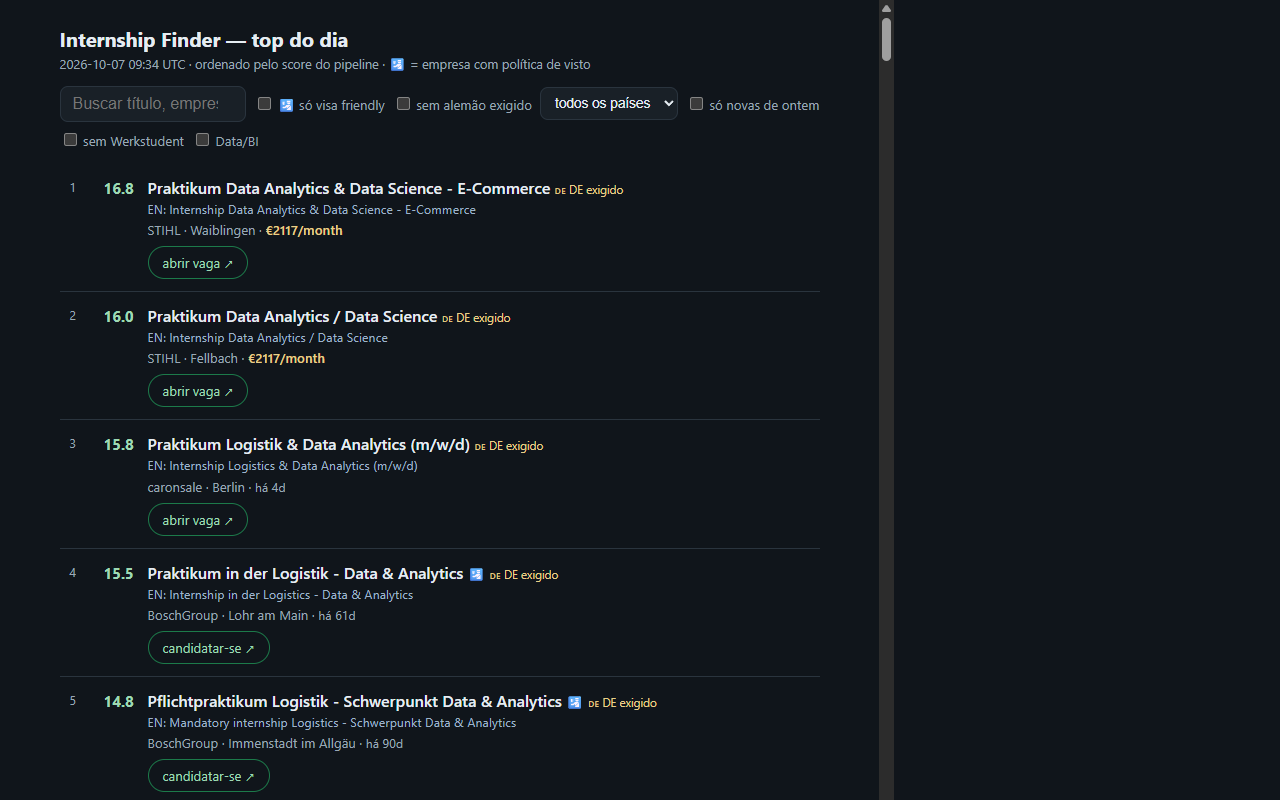
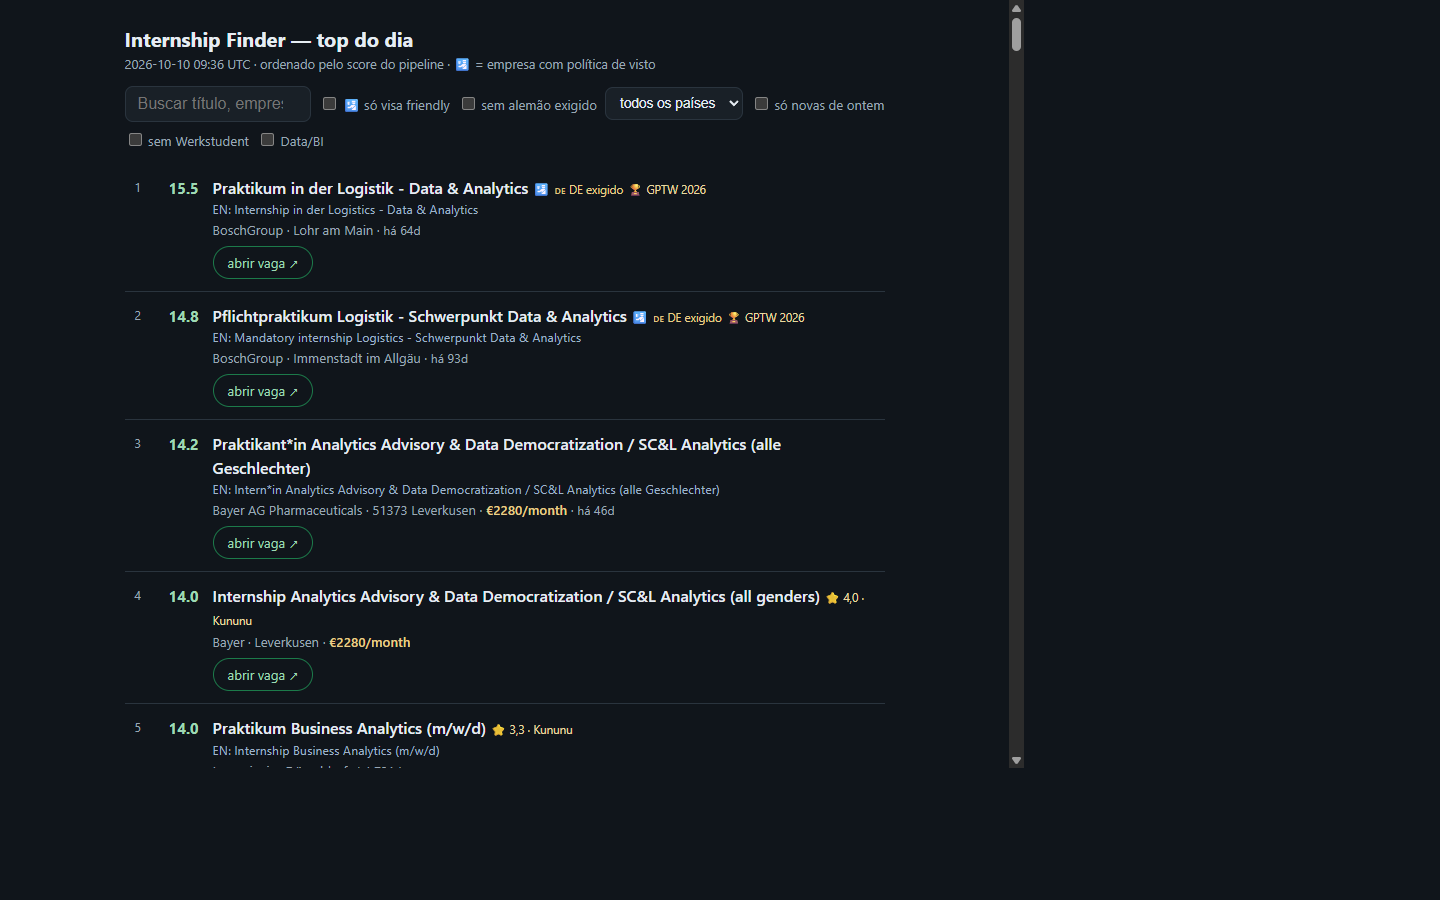
docs: refresh numbers to run 2026-10-10 (771 eligible, 110/15 registry, 67 suites, 175 commits) + new hero screenshot

diff --git a/README.md b/README.md
@@ -1,6 +1,6 @@
 # internship-finder
 
-**A production pipeline that streams ~5 million job postings every day, deduplicates them across 65 ATS platforms, and publishes a ranked, visa-aware shortlist of internships and working-student jobs in Germany.**
+**A production pipeline that streams ~5 million job postings every day, deduplicates them across 15 ATS platforms, and publishes a ranked, visa-aware shortlist of internships and working-student jobs in Germany.**
 
 [![CI](https://github.com/rios-vini/internship-finder/actions/workflows/ci.yml/badge.svg)](https://github.com/rios-vini/internship-finder/actions/workflows/ci.yml)
 [![Python 3.12+](https://img.shields.io/badge/python-3.12%2B-3776AB?logo=python&logoColor=white)](https://www.python.org/)
@@ -42,7 +42,7 @@ has done so in production since September 2026:
 ```mermaid
 flowchart LR
     DS["ats-scrapers hosted dataset<br/>~5.1M postings · 63 per-ATS slices<br/>refreshed daily ~05:00 UTC"] -->|"streaming prefilter"| F
-    RG["curated registry<br/>101 companies · 65 ATS platforms"] -->|"per-company fetch"| F
+    RG["curated registry<br/>110 companies · 15 ATS platforms"] -->|"per-company fetch"| F
     F["eligibility filters<br/>student type + target area + country"] --> D
     D["dedup<br/>3 keys + DE/EN mirror collapse"] --> R
     R["deterministic ranking<br/>2 profiles · score breakdown"] --> P
@@ -53,7 +53,7 @@ flowchart LR
 
 - **Sources** — a hosted dataset of ~5.1M job postings (streamed slice by
   slice, never fully materialized) plus per-company collection from a
-  curated registry of 101 companies across 65 ATS platforms.
+  curated registry of 110 companies across 15 ATS platforms.
 - **Filters** — student-type roles (*Praktikum*, *Werkstudent*, internship,
   working student) in Supply Chain / Procurement / BI / Analytics, plus a
   secondary Materials Engineering profile with its own independent
@@ -65,7 +65,7 @@ flowchart LR
   platforms and languages.
 - **Ranking** — deterministic, reproducible scoring (no ML) with a full
   per-component breakdown; ties broken by score → title → company → id.
-- **Visa signal** — a 🛂 badge marks the 36 companies with a curated,
+- **Visa signal** — a 🛂 badge marks the 68 companies with a curated,
   sourced visa policy; it is a company-level signal and never enters the
   relevance score.
 - **Outputs** — GitHub Pages (top 100 with search and filters), a Telegram
@@ -77,12 +77,12 @@ flowchart LR
 | | |
 |---|---|
 | **~5.1M** | job postings streamed daily from the upstream dataset |
-| **2,428** | eligible jobs in a typical daily run (Oct 2026) → top 100 published |
-| **101 / 65** | curated companies / ATS platforms in the registry |
+| **771** | eligible jobs in the latest daily run (2026-10-10) → top 100 published |
+| **110 / 15** | curated companies / ATS platforms in the registry |
 | **5** | target countries (DE primary + LU, NL, FI, BE) |
-| **59** | CI test suites, all green on every push |
+| **67** | CI test suites, all green on every push |
 | **+0.65** | Kendall tau vs. a 59-job human-labeled ranking benchmark |
-| **67** | commits — every feature PR merged with CI green twice on the exact merge SHA |
+| **175** | commits — every feature PR merged with CI green twice on the exact merge SHA |
 
 ## Engineering decisions worth noticing
 
@@ -114,7 +114,7 @@ flowchart LR
 ## Tech stack
 
 **Python 3.12+** · pydantic (canonical `Job` model) · sqlite3 ·
-requests / BeautifulSoup · GitHub Actions (59 suites on a clean runner) ·
+requests / BeautifulSoup · GitHub Actions (67 suites on a clean runner) ·
 GitHub Pages · Telegram Bot API · Oracle Linux VPS + cron
 
 ## Quickstart
@@ -133,7 +133,7 @@ Collect from the curated registry — the same command the daily cron runs:
 
 ## Testing
 
-59 standalone test suites run on every push (clean runner, Python 3.12,
+67 standalone test suites run on every push (clean runner, Python 3.12,
 no network, no local data). Each one prints `[OK]`/`[FAIL]` and exits
 non-zero on failure:
 
